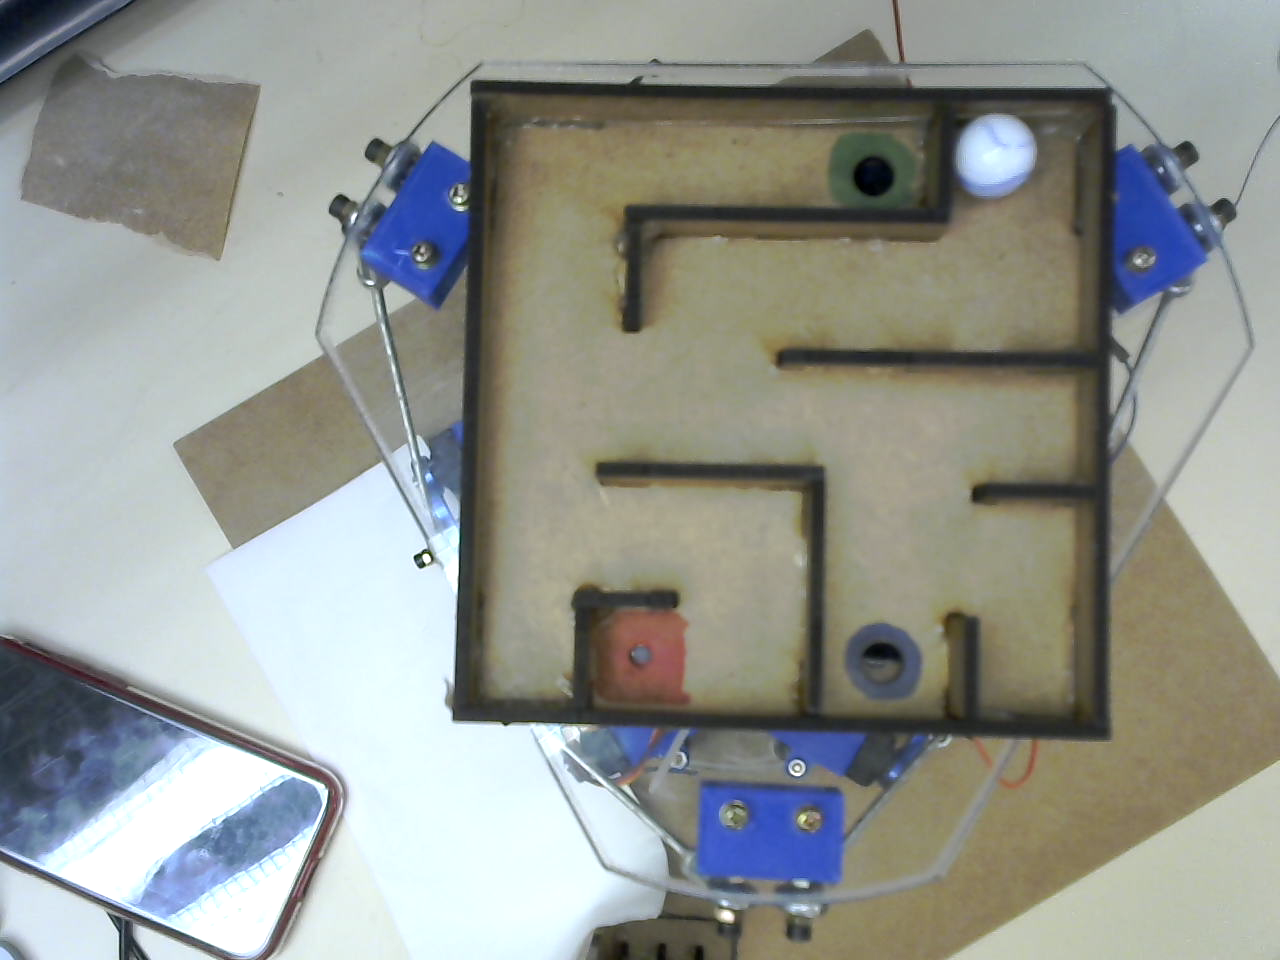
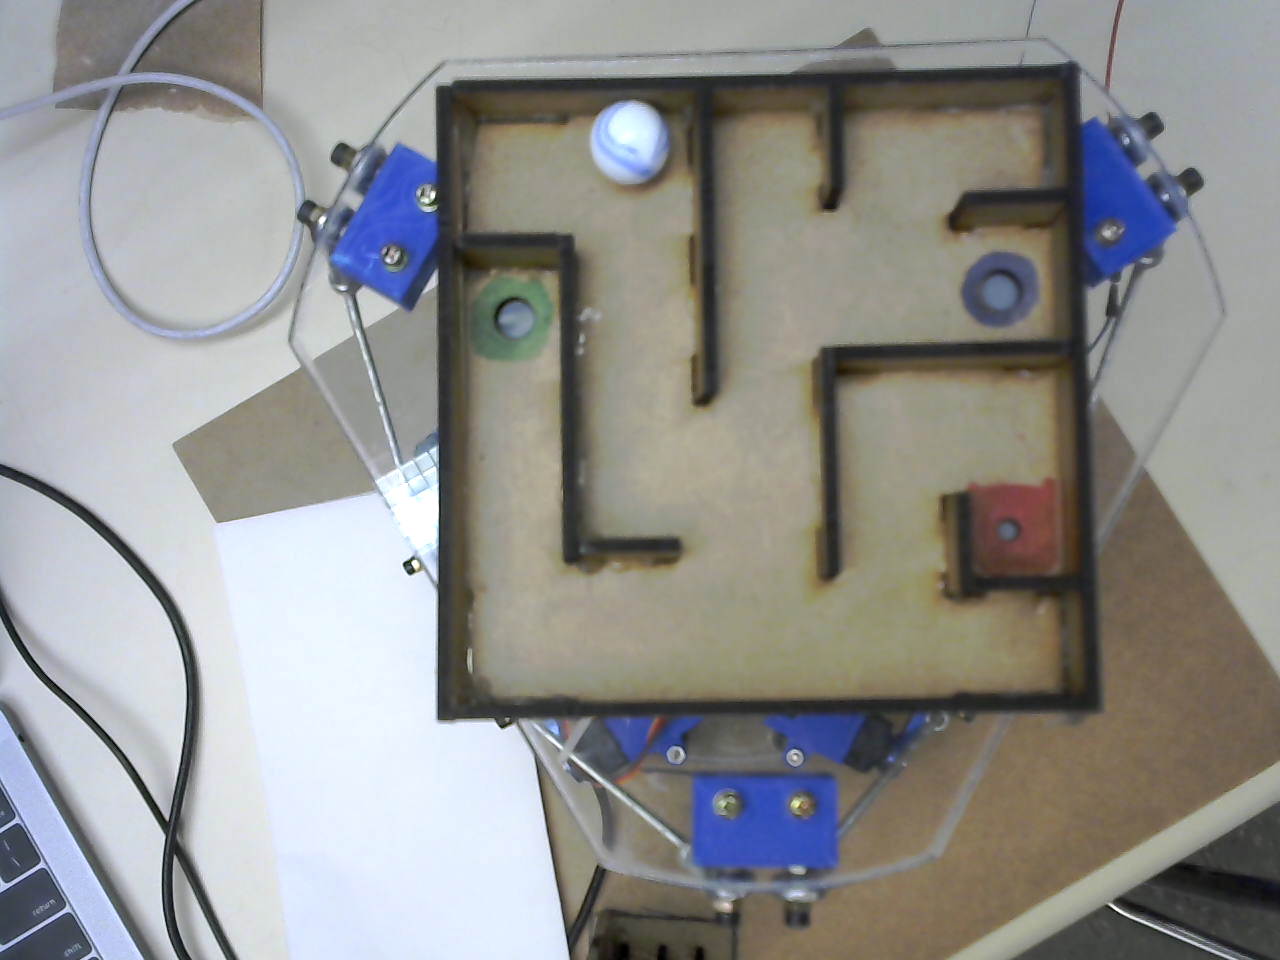
Added green mark detection and path solving

diff --git a/Path_Finding/config.py b/Path_Finding/config.py
@@ -16,14 +16,15 @@ GRID_SIZE_PERCENT = 0.018
 
 
 # Feature
-FEATURE_TARGET =[   {'tag': 'blue_mark', 'lower':[41,0,93], 'upper':[106,255,150], 'minArea':1000, 'maskSize':50},
-                    {'tag': 'red_mark','lower':[2,0,0],  'upper':[14, 255, 255], 'minArea':1000, 'maskSize':60},
-                    {'tag': 'ball', 'lower':[0,0,230], 'upper':[255,255,255], 'minArea':1000, 'maskSize':60},
+FEATURE_TARGET =[   { 'tag': 'blue_mark', 'lower':[41,0,93], 'upper':[106,255,150], 'minArea':1000, 'maskSize':50 },
+                    { 'tag': 'red_mark','lower':[2,0,0],  'upper':[14, 255, 255], 'minArea':1000, 'maskSize':60 },
+                    { 'tag': 'ball', 'lower':[0,0,230], 'upper':[255,255,255], 'minArea':1000, 'maskSize':60 },
+                    { 'tag': 'green_mark', 'lower': [32, 32, 35], 'upper': [73, 160, 161], 'minArea': 1000, 'maskSize': 55 }
                 ]
 
 # INTERFACE Config
-COUNT_DELAY = 0.08 #s
-COUNT_DELAY_REPEAT = 0.015 #0.01 #s
+COUNT_DELAY = 0.1 #s
+COUNT_DELAY_REPEAT = 0.01 #0.01 #s
 
 
 #

diff --git a/Path_Finding/main.py b/Path_Finding/main.py
@@ -50,7 +50,7 @@ def main(argv):
                     EPRINT(' Unable to find balls, abort path planning, continue searching ...')
                 else:
                     ball = features_uv['ball']
-                    list_mark_tags = ['blue_mark', 'red_mark']
+                    list_mark_tags = ['blue_mark', 'red_mark', 'green_mark']
                     path_dict = {}
                     clr_i = 0
                     for tag in list_mark_tags:

diff --git a/Path_Finding/app.py b/Path_Finding/app.py
@@ -37,7 +37,7 @@ def send_path(path, tilt_angle):
     pathA = PathA()
     commands = pathA.getCommandMovementsFromPath(path, tilt_angle)
     ser = serial.Serial()
-    ser.port = '/dev/tty.usbmodem143303'
+    ser.port = '/dev/tty.usbmodem142303'
     ser.baudrate = 9600
     ser.open()
     count = COUNT_DELAY
